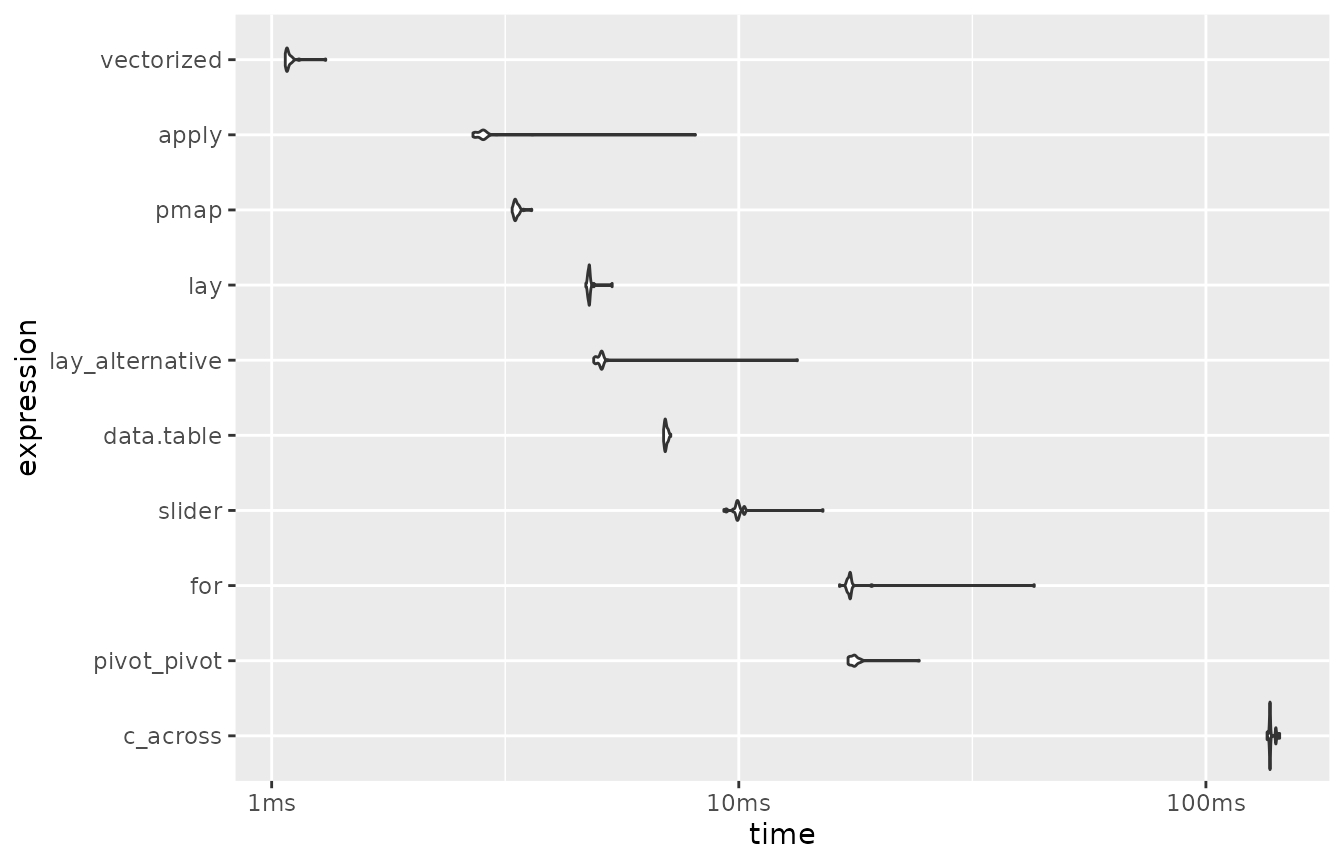
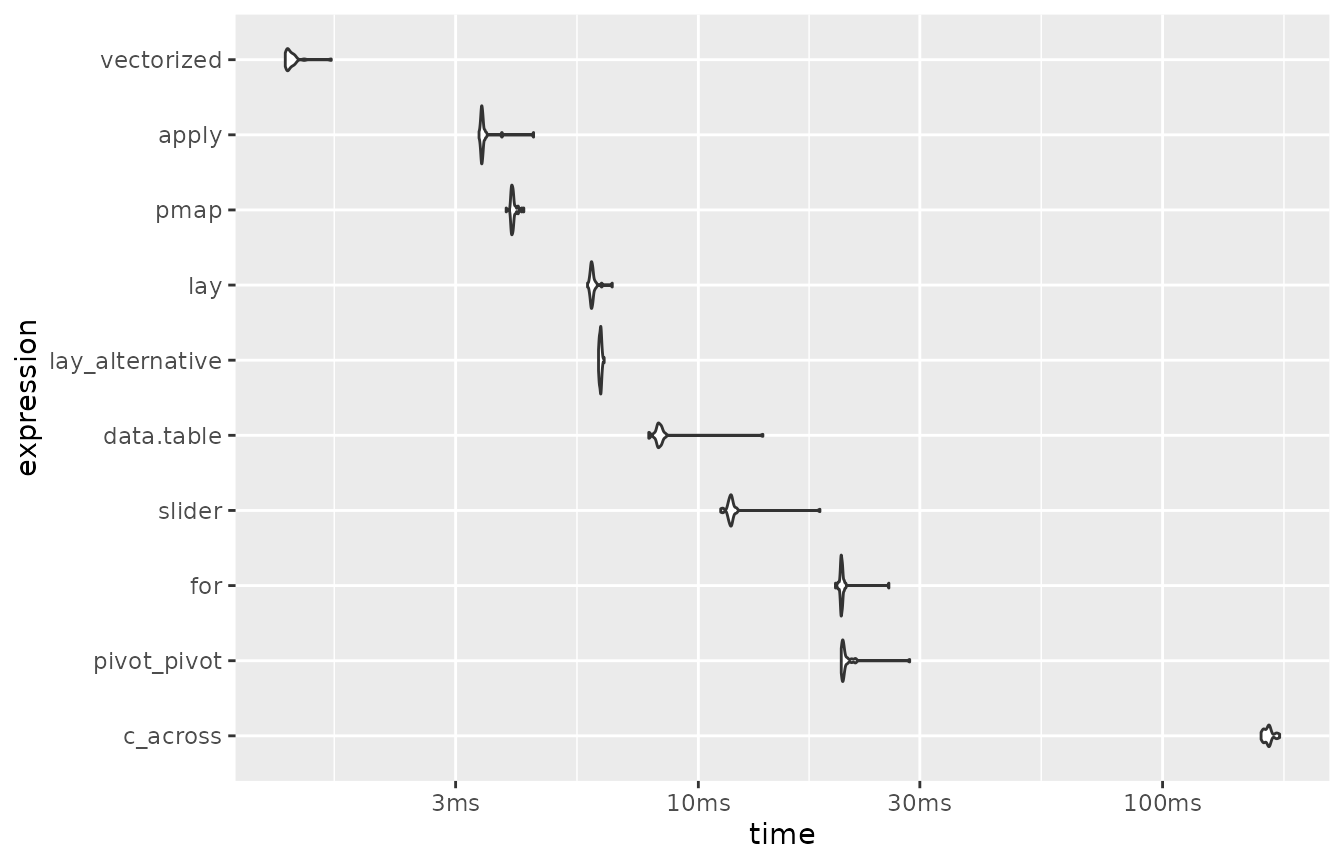
Deploying to gh-pages from @ courtiol/lay@ac077b086c43c294d80a538edb7e01ea04c60ee6 🚀

diff --git a/articles/benchmarks.html b/articles/benchmarks.html
@@ -33,7 +33,7 @@
     
     <a class="navbar-brand me-2" href="../index.html">lay</a>
 
-    <small class="nav-text text-muted me-auto" data-bs-toggle="tooltip" data-bs-placement="bottom" title="">0.1.1</small>
+    <small class="nav-text text-muted me-auto" data-bs-toggle="tooltip" data-bs-placement="bottom" title="">0.1.3</small>
 
     
     <button class="navbar-toggler" type="button" data-bs-toggle="collapse" data-bs-target="#navbar" aria-controls="navbar" aria-expanded="false" aria-label="Toggle navigation">
@@ -51,6 +51,9 @@
     <a class="dropdown-item" href="../articles/alternatives.html">Alternatives for rowwise jobs</a>
     <a class="dropdown-item" href="../articles/benchmarks.html">Benchmarks</a>
   </div>
+</li>
+<li class="nav-item">
+  <a class="nav-link" href="../news/index.html">Changelog</a>
 </li>
       </ul>
 <form class="form-inline my-2 my-lg-0" role="search">
@@ -221,16 +224,16 @@ the full dataset:</p>
 <span><span class="co">#&gt; <span style="color: #949494;"># A tibble: 10 × 6</span></span></span>
 <span><span class="co">#&gt;    expression           min   median `itr/sec` mem_alloc `gc/sec`</span></span>
 <span><span class="co">#&gt;    <span style="color: #949494; font-style: italic;">&lt;bch:expr&gt;</span>         <span style="color: #949494; font-style: italic;">&lt;dbl&gt;</span>    <span style="color: #949494; font-style: italic;">&lt;dbl&gt;</span>     <span style="color: #949494; font-style: italic;">&lt;dbl&gt;</span> <span style="color: #949494; font-style: italic;">&lt;bch:byt&gt;</span>    <span style="color: #949494; font-style: italic;">&lt;dbl&gt;</span></span></span>
-<span><span class="co">#&gt; <span style="color: #BCBCBC;"> 1</span> vectorized          2.60     2.63  364.        2.74MB     0   </span></span>
-<span><span class="co">#&gt; <span style="color: #BCBCBC;"> 2</span> apply              95.9     97.6    10.2       4.01MB     4.08</span></span>
-<span><span class="co">#&gt; <span style="color: #BCBCBC;"> 3</span> lay               120.     122.      7.95      5.49MB     1.59</span></span>
-<span><span class="co">#&gt; <span style="color: #BCBCBC;"> 4</span> pivot_pivot       260.     263.      3.77     62.38MB     1.51</span></span>
-<span><span class="co">#&gt; <span style="color: #BCBCBC;"> 5</span> pmap              316.     319.      3.11    251.29KB     2.49</span></span>
-<span><span class="co">#&gt; <span style="color: #BCBCBC;"> 6</span> lay_alternative  <span style="text-decoration: underline;">1</span>355.    <span style="text-decoration: underline;">1</span>379.      0.729     15.3MB     1.90</span></span>
-<span><span class="co">#&gt; <span style="color: #BCBCBC;"> 7</span> data.table       <span style="text-decoration: underline;">3</span>373.    <span style="text-decoration: underline;">3</span>380.      0.287     3.04MB     2.53</span></span>
-<span><span class="co">#&gt; <span style="color: #BCBCBC;"> 8</span> slider           <span style="text-decoration: underline;">3</span>962.    <span style="text-decoration: underline;">3</span>977.      0.251   915.15KB     2.40</span></span>
-<span><span class="co">#&gt; <span style="color: #BCBCBC;"> 9</span> for              <span style="text-decoration: underline;">7</span>815.    <span style="text-decoration: underline;">7</span>868.      0.126   271.73KB     2.60</span></span>
-<span><span class="co">#&gt; <span style="color: #BCBCBC;">10</span> c_across        <span style="text-decoration: underline;">79</span>215.   <span style="text-decoration: underline;">81</span>526.      0.012<span style="text-decoration: underline;">3</span>  424.32MB     1.08</span></span></code></pre></div>
+<span><span class="co">#&gt; <span style="color: #BCBCBC;"> 1</span> vectorized          3.10     3.14  307.        2.74MB    0    </span></span>
+<span><span class="co">#&gt; <span style="color: #BCBCBC;"> 2</span> apply             114.     116.      8.54      4.01MB    3.42 </span></span>
+<span><span class="co">#&gt; <span style="color: #BCBCBC;"> 3</span> lay               144.     145.      6.74      5.49MB    1.35 </span></span>
+<span><span class="co">#&gt; <span style="color: #BCBCBC;"> 4</span> pivot_pivot       308.     321.      3.15     62.38MB    1.26 </span></span>
+<span><span class="co">#&gt; <span style="color: #BCBCBC;"> 5</span> pmap              376.     381.      2.63    251.29KB    2.10 </span></span>
+<span><span class="co">#&gt; <span style="color: #BCBCBC;"> 6</span> lay_alternative  <span style="text-decoration: underline;">1</span>566.    <span style="text-decoration: underline;">1</span>584.      0.633     15.3MB    1.65 </span></span>
+<span><span class="co">#&gt; <span style="color: #BCBCBC;"> 7</span> data.table       <span style="text-decoration: underline;">4</span>052.    <span style="text-decoration: underline;">4</span>061.      0.239     3.04MB    2.06 </span></span>
+<span><span class="co">#&gt; <span style="color: #BCBCBC;"> 8</span> slider           <span style="text-decoration: underline;">4</span>700.    <span style="text-decoration: underline;">4</span>704.      0.212   915.15KB    2.03 </span></span>
+<span><span class="co">#&gt; <span style="color: #BCBCBC;"> 9</span> for              <span style="text-decoration: underline;">9</span>311.    <span style="text-decoration: underline;">9</span>408.      0.106   271.73KB    2.15 </span></span>
+<span><span class="co">#&gt; <span style="color: #BCBCBC;">10</span> c_across        <span style="text-decoration: underline;">93</span>306.   <span style="text-decoration: underline;">93</span>401.      0.010<span style="text-decoration: underline;">7</span>  424.32MB    0.931</span></span></code></pre></div>
 <div class="sourceCode" id="cb6"><pre class="downlit sourceCode r">
 <code class="sourceCode R"><span><span class="va">benchmark1</span> <span class="op">|&gt;</span></span>
 <span>  <span class="fu"><a href="https://dplyr.tidyverse.org/reference/mutate.html" class="external-link">mutate</a></span><span class="op">(</span>expression <span class="op">=</span> <span class="fu"><a href="https://forcats.tidyverse.org/reference/fct_reorder.html" class="external-link">fct_reorder</a></span><span class="op">(</span><span class="fu"><a href="https://rdrr.io/r/base/character.html" class="external-link">as.character</a></span><span class="op">(</span><span class="va">expression</span><span class="op">)</span>, <span class="va">median</span>, .desc <span class="op">=</span> <span class="cn">TRUE</span><span class="op">)</span><span class="op">)</span> <span class="op">|&gt;</span></span>
@@ -296,16 +299,16 @@ dataset:</p>
 <span><span class="co">#&gt; <span style="color: #949494;"># A tibble: 10 × 6</span></span></span>
 <span><span class="co">#&gt;    expression         min median `itr/sec` mem_alloc `gc/sec`</span></span>
 <span><span class="co">#&gt;    <span style="color: #949494; font-style: italic;">&lt;bch:expr&gt;</span>       <span style="color: #949494; font-style: italic;">&lt;dbl&gt;</span>  <span style="color: #949494; font-style: italic;">&lt;dbl&gt;</span>     <span style="color: #949494; font-style: italic;">&lt;dbl&gt;</span> <span style="color: #949494; font-style: italic;">&lt;bch:byt&gt;</span>    <span style="color: #949494; font-style: italic;">&lt;dbl&gt;</span></span></span>
-<span><span class="co">#&gt; <span style="color: #BCBCBC;"> 1</span> vectorized        1.07   1.08    915.      7.33KB     0   </span></span>
-<span><span class="co">#&gt; <span style="color: #BCBCBC;"> 2</span> apply             2.70   2.83    352.     16.92KB    12.1 </span></span>
-<span><span class="co">#&gt; <span style="color: #BCBCBC;"> 3</span> pmap              3.27   3.33    299.      9.91KB     0   </span></span>
-<span><span class="co">#&gt; <span style="color: #BCBCBC;"> 4</span> lay               4.70   4.78    208.     27.12KB     0   </span></span>
-<span><span class="co">#&gt; <span style="color: #BCBCBC;"> 5</span> lay_alternative   4.89   5.08    198.     38.05KB     6.83</span></span>
-<span><span class="co">#&gt; <span style="color: #BCBCBC;"> 6</span> data.table        6.90   6.97    143.     67.66KB     0   </span></span>
-<span><span class="co">#&gt; <span style="color: #BCBCBC;"> 7</span> slider            9.29   9.94    101.     11.18KB     3.47</span></span>
-<span><span class="co">#&gt; <span style="color: #BCBCBC;"> 8</span> for              16.4   17.3      57.8    17.74KB     1.99</span></span>
-<span><span class="co">#&gt; <span style="color: #BCBCBC;"> 9</span> pivot_pivot      17.1   17.7      56.8   189.23KB     1.96</span></span>
-<span><span class="co">#&gt; <span style="color: #BCBCBC;">10</span> c_across        135.   137.        7.30  794.53KB     2.22</span></span></code></pre></div>
+<span><span class="co">#&gt; <span style="color: #BCBCBC;"> 1</span> vectorized        1.29   1.31    752.      7.33KB     0   </span></span>
+<span><span class="co">#&gt; <span style="color: #BCBCBC;"> 2</span> apply             3.37   3.42    288.     16.92KB     0   </span></span>
+<span><span class="co">#&gt; <span style="color: #BCBCBC;"> 3</span> pmap              3.85   3.98    250.      9.91KB     0   </span></span>
+<span><span class="co">#&gt; <span style="color: #BCBCBC;"> 4</span> lay               5.77   5.89    169.     27.12KB     0   </span></span>
+<span><span class="co">#&gt; <span style="color: #BCBCBC;"> 5</span> lay_alternative   6.09   6.16    162.     38.05KB     0   </span></span>
+<span><span class="co">#&gt; <span style="color: #BCBCBC;"> 6</span> data.table        7.82   8.21    122.     67.66KB     4.20</span></span>
+<span><span class="co">#&gt; <span style="color: #BCBCBC;"> 7</span> slider           11.2   11.7      85.3    11.42KB     2.94</span></span>
+<span><span class="co">#&gt; <span style="color: #BCBCBC;"> 8</span> for              19.7   20.3      49.2    17.74KB     1.70</span></span>
+<span><span class="co">#&gt; <span style="color: #BCBCBC;"> 9</span> pivot_pivot      20.3   20.5      48.4   189.23KB     1.67</span></span>
+<span><span class="co">#&gt; <span style="color: #BCBCBC;">10</span> c_across        163.   168.        5.97  794.53KB     1.82</span></span></code></pre></div>
 <div class="sourceCode" id="cb9"><pre class="downlit sourceCode r">
 <code class="sourceCode R"><span><span class="va">benchmark2</span> <span class="op">|&gt;</span></span>
 <span>  <span class="fu"><a href="https://dplyr.tidyverse.org/reference/mutate.html" class="external-link">mutate</a></span><span class="op">(</span>expression <span class="op">=</span> <span class="fu"><a href="https://forcats.tidyverse.org/reference/fct_reorder.html" class="external-link">fct_reorder</a></span><span class="op">(</span><span class="fu"><a href="https://rdrr.io/r/base/character.html" class="external-link">as.character</a></span><span class="op">(</span><span class="va">expression</span><span class="op">)</span>, <span class="va">median</span>, .desc <span class="op">=</span> <span class="cn">TRUE</span><span class="op">)</span><span class="op">)</span> <span class="op">|&gt;</span></span>
@@ -340,7 +343,7 @@ dataset:</p>
 <span><span class="co">#&gt; </span></span>
 <span><span class="co">#&gt; other attached packages:</span></span>
 <span><span class="co">#&gt; [1] forcats_1.0.0     bench_1.1.3       data.table_1.14.8 slider_0.3.1     </span></span>
-<span><span class="co">#&gt; [5] purrr_1.0.2       tidyr_1.3.0       dplyr_1.1.3       lay_0.1.1        </span></span>
+<span><span class="co">#&gt; [5] purrr_1.0.2       tidyr_1.3.0       dplyr_1.1.3       lay_0.1.3        </span></span>
 <span><span class="co">#&gt; </span></span>
 <span><span class="co">#&gt; loaded via a namespace (and not attached):</span></span>
 <span><span class="co">#&gt;  [1] sass_0.4.7        utf8_1.2.4        generics_0.1.3    stringi_1.7.12   </span></span>

diff --git a/news/index.html b/news/index.html
@@ -1,0 +1,81 @@
+<!DOCTYPE html>
+<!-- Generated by pkgdown: do not edit by hand --><html lang="en"><head><meta http-equiv="Content-Type" content="text/html; charset=UTF-8"><meta charset="utf-8"><meta http-equiv="X-UA-Compatible" content="IE=edge"><meta name="viewport" content="width=device-width, initial-scale=1, shrink-to-fit=no"><title>Changelog • lay</title><!-- favicons --><link rel="icon" type="image/png" sizes="16x16" href="../favicon-16x16.png"><link rel="icon" type="image/png" sizes="32x32" href="../favicon-32x32.png"><link rel="apple-touch-icon" type="image/png" sizes="180x180" href="../apple-touch-icon.png"><link rel="apple-touch-icon" type="image/png" sizes="120x120" href="../apple-touch-icon-120x120.png"><link rel="apple-touch-icon" type="image/png" sizes="76x76" href="../apple-touch-icon-76x76.png"><link rel="apple-touch-icon" type="image/png" sizes="60x60" href="../apple-touch-icon-60x60.png"><script src="../deps/jquery-3.6.0/jquery-3.6.0.min.js"></script><meta name="viewport" content="width=device-width, initial-scale=1, shrink-to-fit=no"><link href="../deps/bootstrap-5.2.2/bootstrap.min.css" rel="stylesheet"><script src="../deps/bootstrap-5.2.2/bootstrap.bundle.min.js"></script><!-- Font Awesome icons --><link rel="stylesheet" href="https://cdnjs.cloudflare.com/ajax/libs/font-awesome/5.12.1/css/all.min.css" integrity="sha256-mmgLkCYLUQbXn0B1SRqzHar6dCnv9oZFPEC1g1cwlkk=" crossorigin="anonymous"><link rel="stylesheet" href="https://cdnjs.cloudflare.com/ajax/libs/font-awesome/5.12.1/css/v4-shims.min.css" integrity="sha256-wZjR52fzng1pJHwx4aV2AO3yyTOXrcDW7jBpJtTwVxw=" crossorigin="anonymous"><!-- bootstrap-toc --><script src="https://cdn.jsdelivr.net/gh/afeld/bootstrap-toc@v1.0.1/dist/bootstrap-toc.min.js" integrity="sha256-4veVQbu7//Lk5TSmc7YV48MxtMy98e26cf5MrgZYnwo=" crossorigin="anonymous"></script><!-- headroom.js --><script src="https://cdnjs.cloudflare.com/ajax/libs/headroom/0.11.0/headroom.min.js" integrity="sha256-AsUX4SJE1+yuDu5+mAVzJbuYNPHj/WroHuZ8Ir/CkE0=" crossorigin="anonymous"></script><script src="https://cdnjs.cloudflare.com/ajax/libs/headroom/0.11.0/jQuery.headroom.min.js" integrity="sha256-ZX/yNShbjqsohH1k95liqY9Gd8uOiE1S4vZc+9KQ1K4=" crossorigin="anonymous"></script><!-- clipboard.js --><script src="https://cdnjs.cloudflare.com/ajax/libs/clipboard.js/2.0.6/clipboard.min.js" integrity="sha256-inc5kl9MA1hkeYUt+EC3BhlIgyp/2jDIyBLS6k3UxPI=" crossorigin="anonymous"></script><!-- search --><script src="https://cdnjs.cloudflare.com/ajax/libs/fuse.js/6.4.6/fuse.js" integrity="sha512-zv6Ywkjyktsohkbp9bb45V6tEMoWhzFzXis+LrMehmJZZSys19Yxf1dopHx7WzIKxr5tK2dVcYmaCk2uqdjF4A==" crossorigin="anonymous"></script><script src="https://cdnjs.cloudflare.com/ajax/libs/autocomplete.js/0.38.0/autocomplete.jquery.min.js" integrity="sha512-GU9ayf+66Xx2TmpxqJpliWbT5PiGYxpaG8rfnBEk1LL8l1KGkRShhngwdXK1UgqhAzWpZHSiYPc09/NwDQIGyg==" crossorigin="anonymous"></script><script src="https://cdnjs.cloudflare.com/ajax/libs/mark.js/8.11.1/mark.min.js" integrity="sha512-5CYOlHXGh6QpOFA/TeTylKLWfB3ftPsde7AnmhuitiTX4K5SqCLBeKro6sPS8ilsz1Q4NRx3v8Ko2IBiszzdww==" crossorigin="anonymous"></script><!-- pkgdown --><script src="../pkgdown.js"></script><meta property="og:title" content="Changelog"><meta property="og:image" content="https://courtiol.github.io/lay/logo.png"><!-- mathjax --><script src="https://cdnjs.cloudflare.com/ajax/libs/mathjax/2.7.5/MathJax.js" integrity="sha256-nvJJv9wWKEm88qvoQl9ekL2J+k/RWIsaSScxxlsrv8k=" crossorigin="anonymous"></script><script src="https://cdnjs.cloudflare.com/ajax/libs/mathjax/2.7.5/config/TeX-AMS-MML_HTMLorMML.js" integrity="sha256-84DKXVJXs0/F8OTMzX4UR909+jtl4G7SPypPavF+GfA=" crossorigin="anonymous"></script><!--[if lt IE 9]>
+<script src="https://oss.maxcdn.com/html5shiv/3.7.3/html5shiv.min.js"></script>
+<script src="https://oss.maxcdn.com/respond/1.4.2/respond.min.js"></script>
+<![endif]--></head><body>
+    <a href="#main" class="visually-hidden-focusable">Skip to contents</a>
+    
+
+    <nav class="navbar fixed-top navbar-light navbar-expand-lg bg-light"><div class="container">
+    
+    <a class="navbar-brand me-2" href="../index.html">lay</a>
+
+    <small class="nav-text text-muted me-auto" data-bs-toggle="tooltip" data-bs-placement="bottom" title="">0.1.3</small>
+
+    
+    <button class="navbar-toggler" type="button" data-bs-toggle="collapse" data-bs-target="#navbar" aria-controls="navbar" aria-expanded="false" aria-label="Toggle navigation">
+      <span class="navbar-toggler-icon"></span>
+    </button>
+
+    <div id="navbar" class="collapse navbar-collapse ms-3">
+      <ul class="navbar-nav me-auto"><li class="nav-item">
+  <a class="nav-link" href="../reference/index.html">Reference</a>
+</li>
+<li class="nav-item dropdown">
+  <a href="#" class="nav-link dropdown-toggle" data-bs-toggle="dropdown" role="button" aria-expanded="false" aria-haspopup="true" id="dropdown-articles">Articles</a>
+  <div class="dropdown-menu" aria-labelledby="dropdown-articles">
+    <a class="dropdown-item" href="../articles/alternatives.html">Alternatives for rowwise jobs</a>
+    <a class="dropdown-item" href="../articles/benchmarks.html">Benchmarks</a>
+  </div>
+</li>
+<li class="active nav-item">
+  <a class="nav-link" href="../news/index.html">Changelog</a>
+</li>
+      </ul><form class="form-inline my-2 my-lg-0" role="search">
+        <input type="search" class="form-control me-sm-2" aria-label="Toggle navigation" name="search-input" data-search-index="../search.json" id="search-input" placeholder="Search for" autocomplete="off"></form>
+
+      <ul class="navbar-nav"><li class="nav-item">
+  <a class="external-link nav-link" href="https://github.com/courtiol/lay/" aria-label="github">
+    <span class="fab fa fab fa-github fa-lg"></span>
+     
+  </a>
+</li>
+      </ul></div>
+
+    
+  </div>
+</nav><div class="container template-news">
+<div class="row">
+  <main id="main" class="col-md-9"><div class="page-header">
+      <img src="../logo.png" class="logo" alt=""><h1>Changelog</h1>
+      <small>Source: <a href="https://github.com/courtiol/lay/blob/HEAD/NEWS.md" class="external-link"><code>NEWS.md</code></a></small>
+    </div>
+
+    <div class="section level2">
+<h2 class="pkg-version" data-toc-text="0.1.3" id="lay-013">lay 0.1.3<a class="anchor" aria-label="anchor" href="#lay-013"></a></h2>
+<ul><li>Add value field in documentation to meet CRAN requirements.</li>
+</ul></div>
+    <div class="section level2">
+<h2 class="pkg-version" data-toc-text="0.1.2" id="lay-012">lay 0.1.2<a class="anchor" aria-label="anchor" href="#lay-012"></a></h2>
+<ul><li>Initial CRAN submission.</li>
+</ul></div>
+  </main><aside class="col-md-3"><nav id="toc"><h2>On this page</h2>
+    </nav></aside></div>
+
+
+    <footer><div class="pkgdown-footer-left">
+  <p></p><p>Developed by Alexandre Courtiol, Romain François.</p>
+</div>
+
+<div class="pkgdown-footer-right">
+  <p></p><p>Site built with <a href="https://pkgdown.r-lib.org/" class="external-link">pkgdown</a> 2.0.7.</p>
+</div>
+
+    </footer></div>
+
+  
+
+  
+
+  </body></html>
+

diff --git a/LICENSE.html b/LICENSE.html
@@ -10,7 +10,7 @@
     
     <a class="navbar-brand me-2" href="index.html">lay</a>
 
-    <small class="nav-text text-muted me-auto" data-bs-toggle="tooltip" data-bs-placement="bottom" title="">0.1.1</small>
+    <small class="nav-text text-muted me-auto" data-bs-toggle="tooltip" data-bs-placement="bottom" title="">0.1.3</small>
 
     
     <button class="navbar-toggler" type="button" data-bs-toggle="collapse" data-bs-target="#navbar" aria-controls="navbar" aria-expanded="false" aria-label="Toggle navigation">
@@ -27,6 +27,9 @@
     <a class="dropdown-item" href="articles/alternatives.html">Alternatives for rowwise jobs</a>
     <a class="dropdown-item" href="articles/benchmarks.html">Benchmarks</a>
   </div>
+</li>
+<li class="nav-item">
+  <a class="nav-link" href="news/index.html">Changelog</a>
 </li>
       </ul><form class="form-inline my-2 my-lg-0" role="search">
         <input type="search" class="form-control me-sm-2" aria-label="Toggle navigation" name="search-input" data-search-index="search.json" id="search-input" placeholder="Search for" autocomplete="off"></form>
@@ -50,7 +53,7 @@
 
 <div id="mit-license" class="section level1">
 
-<p>Copyright (c) 2020 Romain François</p>
+<p>Copyright (c) 2023 Alexandre Courtiol</p>
 <p>Permission is hereby granted, free of charge, to any person obtaining a copy of this software and associated documentation files (the “Software”), to deal in the Software without restriction, including without limitation the rights to use, copy, modify, merge, publish, distribute, sublicense, and/or sell copies of the Software, and to permit persons to whom the Software is furnished to do so, subject to the following conditions:</p>
 <p>The above copyright notice and this permission notice shall be included in all copies or substantial portions of the Software.</p>
 <p>THE SOFTWARE IS PROVIDED “AS IS”, WITHOUT WARRANTY OF ANY KIND, EXPRESS OR IMPLIED, INCLUDING BUT NOT LIMITED TO THE WARRANTIES OF MERCHANTABILITY, FITNESS FOR A PARTICULAR PURPOSE AND NONINFRINGEMENT. IN NO EVENT SHALL THE AUTHORS OR COPYRIGHT HOLDERS BE LIABLE FOR ANY CLAIM, DAMAGES OR OTHER LIABILITY, WHETHER IN AN ACTION OF CONTRACT, TORT OR OTHERWISE, ARISING FROM, OUT OF OR IN CONNECTION WITH THE SOFTWARE OR THE USE OR OTHER DEALINGS IN THE SOFTWARE.</p>

diff --git a/reference/lay.html b/reference/lay.html
@@ -12,7 +12,7 @@ at a time."><meta property="og:image" content="https://courtiol.github.io/lay/lo
     
     <a class="navbar-brand me-2" href="../index.html">lay</a>
 
-    <small class="nav-text text-muted me-auto" data-bs-toggle="tooltip" data-bs-placement="bottom" title="">0.1.1</small>
+    <small class="nav-text text-muted me-auto" data-bs-toggle="tooltip" data-bs-placement="bottom" title="">0.1.3</small>
 
     
     <button class="navbar-toggler" type="button" data-bs-toggle="collapse" data-bs-target="#navbar" aria-controls="navbar" aria-expanded="false" aria-label="Toggle navigation">
@@ -29,6 +29,9 @@ at a time."><meta property="og:image" content="https://courtiol.github.io/lay/lo
     <a class="dropdown-item" href="../articles/alternatives.html">Alternatives for rowwise jobs</a>
     <a class="dropdown-item" href="../articles/benchmarks.html">Benchmarks</a>
   </div>
+</li>
+<li class="nav-item">
+  <a class="nav-link" href="../news/index.html">Changelog</a>
 </li>
       </ul><form class="form-inline my-2 my-lg-0" role="search">
         <input type="search" class="form-control me-sm-2" aria-label="Toggle navigation" name="search-input" data-search-index="../search.json" id="search-input" placeholder="Search for" autocomplete="off"></form>
@@ -90,6 +93,12 @@ across columns.</p></li>
 </ul><p>The default has been chosen based on these <a href="https://courtiol.github.io/lay/articles/benchmarks.html"><strong>benchmarks</strong></a>.</p></dd>
 
 </dl></div>
+    <div class="section level2">
+    <h2 id="value">Value<a class="anchor" aria-label="anchor" href="#value"></a></h2>
+    
+
+<p>A vector with one element per row of <code>.data</code>, or a data frame (or tibble) with one row per row of <code>.data</code>. The class of the output is determined by <code>.fn</code>.</p>
+    </div>
     <div class="section level2">
     <h2 id="details">Details<a class="anchor" aria-label="anchor" href="#details"></a></h2>
     <p><code>lay()</code> create a vector or a data frame (or tibble), by considering in turns each row of a data

diff --git a/LICENSE-text.html b/LICENSE-text.html
@@ -10,7 +10,7 @@
     
     <a class="navbar-brand me-2" href="index.html">lay</a>
 
-    <small class="nav-text text-muted me-auto" data-bs-toggle="tooltip" data-bs-placement="bottom" title="">0.1.1</small>
+    <small class="nav-text text-muted me-auto" data-bs-toggle="tooltip" data-bs-placement="bottom" title="">0.1.3</small>
 
     
     <button class="navbar-toggler" type="button" data-bs-toggle="collapse" data-bs-target="#navbar" aria-controls="navbar" aria-expanded="false" aria-label="Toggle navigation">
@@ -27,6 +27,9 @@
     <a class="dropdown-item" href="articles/alternatives.html">Alternatives for rowwise jobs</a>
     <a class="dropdown-item" href="articles/benchmarks.html">Benchmarks</a>
   </div>
+</li>
+<li class="nav-item">
+  <a class="nav-link" href="news/index.html">Changelog</a>
 </li>
       </ul><form class="form-inline my-2 my-lg-0" role="search">
         <input type="search" class="form-control me-sm-2" aria-label="Toggle navigation" name="search-input" data-search-index="search.json" id="search-input" placeholder="Search for" autocomplete="off"></form>
@@ -48,8 +51,8 @@
       
     </div>
 
-<pre>YEAR: 2020
-COPYRIGHT HOLDER: Romain François
+<pre>YEAR: 2023
+COPYRIGHT HOLDER: Alexandre Courtiol
 </pre>
 
   </main></div>

diff --git a/reference/reexports.html b/reference/reexports.html
@@ -24,7 +24,7 @@ as_tibble_row, tibble
     
     <a class="navbar-brand me-2" href="../index.html">lay</a>
 
-    <small class="nav-text text-muted me-auto" data-bs-toggle="tooltip" data-bs-placement="bottom" title="">0.1.1</small>
+    <small class="nav-text text-muted me-auto" data-bs-toggle="tooltip" data-bs-placement="bottom" title="">0.1.3</small>
 
     
     <button class="navbar-toggler" type="button" data-bs-toggle="collapse" data-bs-target="#navbar" aria-controls="navbar" aria-expanded="false" aria-label="Toggle navigation">
@@ -41,6 +41,9 @@ as_tibble_row, tibble
     <a class="dropdown-item" href="../articles/alternatives.html">Alternatives for rowwise jobs</a>
     <a class="dropdown-item" href="../articles/benchmarks.html">Benchmarks</a>
   </div>
+</li>
+<li class="nav-item">
+  <a class="nav-link" href="../news/index.html">Changelog</a>
 </li>
       </ul><form class="form-inline my-2 my-lg-0" role="search">
         <input type="search" class="form-control me-sm-2" aria-label="Toggle navigation" name="search-input" data-search-index="../search.json" id="search-input" placeholder="Search for" autocomplete="off"></form>

diff --git a/articles/index.html b/articles/index.html
@@ -10,7 +10,7 @@
     
     <a class="navbar-brand me-2" href="../index.html">lay</a>
 
-    <small class="nav-text text-muted me-auto" data-bs-toggle="tooltip" data-bs-placement="bottom" title="">0.1.1</small>
+    <small class="nav-text text-muted me-auto" data-bs-toggle="tooltip" data-bs-placement="bottom" title="">0.1.3</small>
 
     
     <button class="navbar-toggler" type="button" data-bs-toggle="collapse" data-bs-target="#navbar" aria-controls="navbar" aria-expanded="false" aria-label="Toggle navigation">
@@ -27,6 +27,9 @@
     <a class="dropdown-item" href="../articles/alternatives.html">Alternatives for rowwise jobs</a>
     <a class="dropdown-item" href="../articles/benchmarks.html">Benchmarks</a>
   </div>
+</li>
+<li class="nav-item">
+  <a class="nav-link" href="../news/index.html">Changelog</a>
 </li>
       </ul><form class="form-inline my-2 my-lg-0" role="search">
         <input type="search" class="form-control me-sm-2" aria-label="Toggle navigation" name="search-input" data-search-index="../search.json" id="search-input" placeholder="Search for" autocomplete="off"></form>

diff --git a/reference/drugs.html b/reference/drugs.html
@@ -10,7 +10,7 @@
     
     <a class="navbar-brand me-2" href="../index.html">lay</a>
 
-    <small class="nav-text text-muted me-auto" data-bs-toggle="tooltip" data-bs-placement="bottom" title="">0.1.1</small>
+    <small class="nav-text text-muted me-auto" data-bs-toggle="tooltip" data-bs-placement="bottom" title="">0.1.3</small>
 
     
     <button class="navbar-toggler" type="button" data-bs-toggle="collapse" data-bs-target="#navbar" aria-controls="navbar" aria-expanded="false" aria-label="Toggle navigation">
@@ -27,6 +27,9 @@
     <a class="dropdown-item" href="../articles/alternatives.html">Alternatives for rowwise jobs</a>
     <a class="dropdown-item" href="../articles/benchmarks.html">Benchmarks</a>
   </div>
+</li>
+<li class="nav-item">
+  <a class="nav-link" href="../news/index.html">Changelog</a>
 </li>
       </ul><form class="form-inline my-2 my-lg-0" role="search">
         <input type="search" class="form-control me-sm-2" aria-label="Toggle navigation" name="search-input" data-search-index="../search.json" id="search-input" placeholder="Search for" autocomplete="off"></form>

diff --git a/reference/index.html b/reference/index.html
@@ -10,7 +10,7 @@
     
     <a class="navbar-brand me-2" href="../index.html">lay</a>
 
-    <small class="nav-text text-muted me-auto" data-bs-toggle="tooltip" data-bs-placement="bottom" title="">0.1.1</small>
+    <small class="nav-text text-muted me-auto" data-bs-toggle="tooltip" data-bs-placement="bottom" title="">0.1.3</small>
 
     
     <button class="navbar-toggler" type="button" data-bs-toggle="collapse" data-bs-target="#navbar" aria-controls="navbar" aria-expanded="false" aria-label="Toggle navigation">
@@ -27,6 +27,9 @@
     <a class="dropdown-item" href="../articles/alternatives.html">Alternatives for rowwise jobs</a>
     <a class="dropdown-item" href="../articles/benchmarks.html">Benchmarks</a>
   </div>
+</li>
+<li class="nav-item">
+  <a class="nav-link" href="../news/index.html">Changelog</a>
 </li>
       </ul><form class="form-inline my-2 my-lg-0" role="search">
         <input type="search" class="form-control me-sm-2" aria-label="Toggle navigation" name="search-input" data-search-index="../search.json" id="search-input" placeholder="Search for" autocomplete="off"></form>

diff --git a/CODE_OF_CONDUCT.html b/CODE_OF_CONDUCT.html
@@ -10,7 +10,7 @@
     
     <a class="navbar-brand me-2" href="index.html">lay</a>
 
-    <small class="nav-text text-muted me-auto" data-bs-toggle="tooltip" data-bs-placement="bottom" title="">0.1.1</small>
+    <small class="nav-text text-muted me-auto" data-bs-toggle="tooltip" data-bs-placement="bottom" title="">0.1.3</small>
 
     
     <button class="navbar-toggler" type="button" data-bs-toggle="collapse" data-bs-target="#navbar" aria-controls="navbar" aria-expanded="false" aria-label="Toggle navigation">
@@ -27,6 +27,9 @@
     <a class="dropdown-item" href="articles/alternatives.html">Alternatives for rowwise jobs</a>
     <a class="dropdown-item" href="articles/benchmarks.html">Benchmarks</a>
   </div>
+</li>
+<li class="nav-item">
+  <a class="nav-link" href="news/index.html">Changelog</a>
 </li>
       </ul><form class="form-inline my-2 my-lg-0" role="search">
         <input type="search" class="form-control me-sm-2" aria-label="Toggle navigation" name="search-input" data-search-index="search.json" id="search-input" placeholder="Search for" autocomplete="off"></form>

diff --git a/CONTRIBUTING.html b/CONTRIBUTING.html
@@ -10,7 +10,7 @@
     
     <a class="navbar-brand me-2" href="index.html">lay</a>
 
-    <small class="nav-text text-muted me-auto" data-bs-toggle="tooltip" data-bs-placement="bottom" title="">0.1.1</small>
+    <small class="nav-text text-muted me-auto" data-bs-toggle="tooltip" data-bs-placement="bottom" title="">0.1.3</small>
 
     
     <button class="navbar-toggler" type="button" data-bs-toggle="collapse" data-bs-target="#navbar" aria-controls="navbar" aria-expanded="false" aria-label="Toggle navigation">
@@ -27,6 +27,9 @@
     <a class="dropdown-item" href="articles/alternatives.html">Alternatives for rowwise jobs</a>
     <a class="dropdown-item" href="articles/benchmarks.html">Benchmarks</a>
   </div>
+</li>
+<li class="nav-item">
+  <a class="nav-link" href="news/index.html">Changelog</a>
 </li>
       </ul><form class="form-inline my-2 my-lg-0" role="search">
         <input type="search" class="form-control me-sm-2" aria-label="Toggle navigation" name="search-input" data-search-index="search.json" id="search-input" placeholder="Search for" autocomplete="off"></form>

diff --git a/SUPPORT.html b/SUPPORT.html
@@ -10,7 +10,7 @@
     
     <a class="navbar-brand me-2" href="index.html">lay</a>
 
-    <small class="nav-text text-muted me-auto" data-bs-toggle="tooltip" data-bs-placement="bottom" title="">0.1.1</small>
+    <small class="nav-text text-muted me-auto" data-bs-toggle="tooltip" data-bs-placement="bottom" title="">0.1.3</small>
 
     
     <button class="navbar-toggler" type="button" data-bs-toggle="collapse" data-bs-target="#navbar" aria-controls="navbar" aria-expanded="false" aria-label="Toggle navigation">
@@ -27,6 +27,9 @@
     <a class="dropdown-item" href="articles/alternatives.html">Alternatives for rowwise jobs</a>
     <a class="dropdown-item" href="articles/benchmarks.html">Benchmarks</a>
   </div>
+</li>
+<li class="nav-item">
+  <a class="nav-link" href="news/index.html">Changelog</a>
 </li>
       </ul><form class="form-inline my-2 my-lg-0" role="search">
         <input type="search" class="form-control me-sm-2" aria-label="Toggle navigation" name="search-input" data-search-index="search.json" id="search-input" placeholder="Search for" autocomplete="off"></form>
